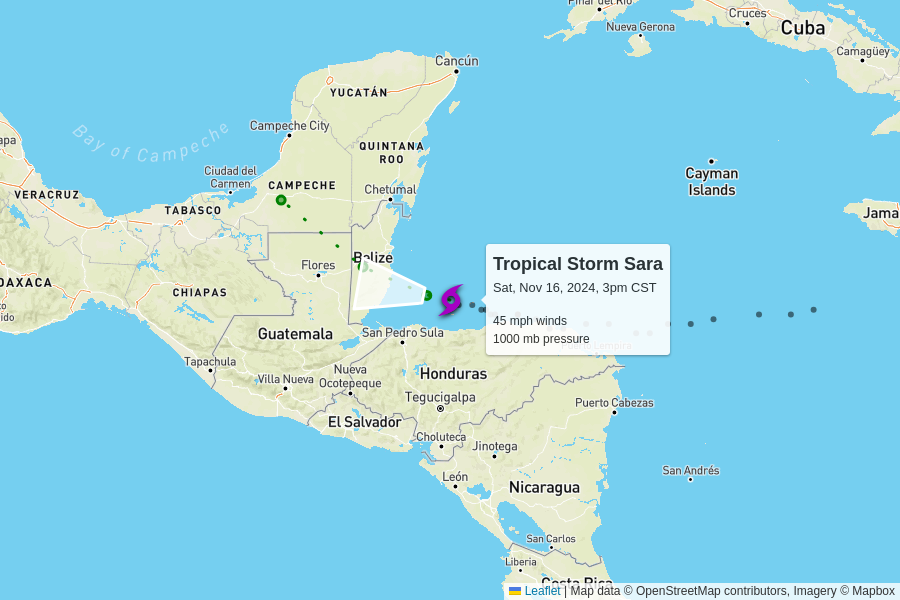
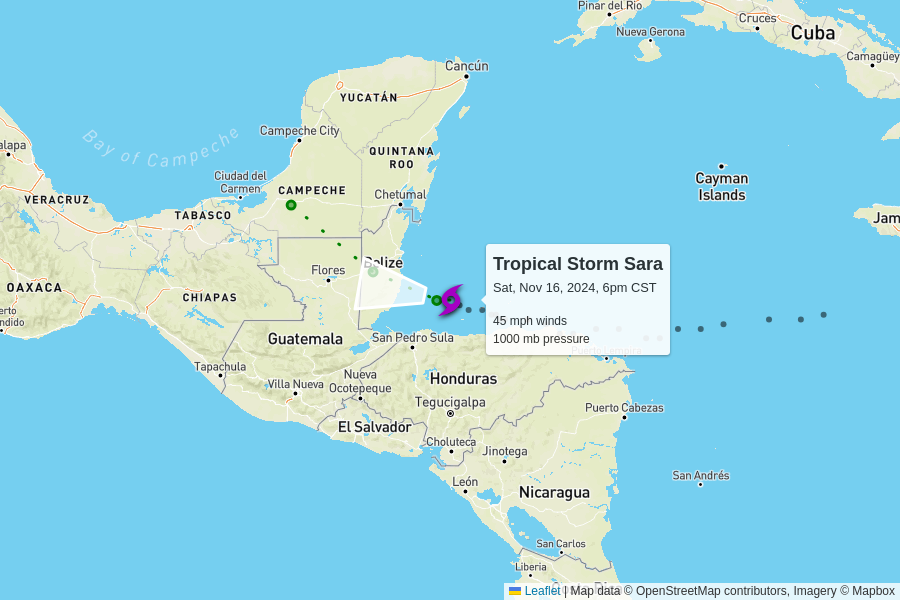
automatic update

diff --git a/docs/index.html b/docs/index.html
@@ -102,7 +102,7 @@
         <td colspan="6" class="storm category-0" >
           <h2>
             Tropical Storm Sara
-            <p class="updated">last updated <span data-time>2024-11-16T21:00:00.000Z</span></p>
+            <p class="updated">last updated <span data-time>2024-11-17T00:00:00.000Z</span></p>
           </h2>
         </td>
       </tr>
@@ -118,7 +118,7 @@
       <tr>
         <td class="spacer"></td>
         <td>45 mph<br>0 mph since last update</td>
-        <td>1000 mb<br>-2 mb since last update</td>
+        <td>1000 mb<br>0 mb since last update</td>
         <td>
           5 mph to the west
           <br/>
